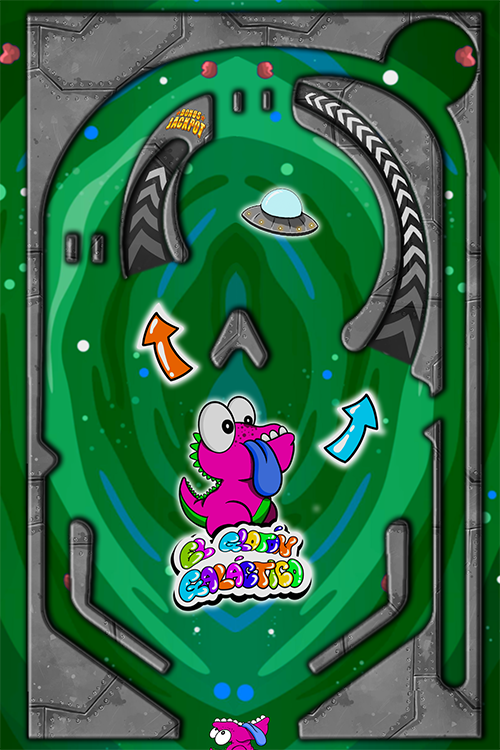
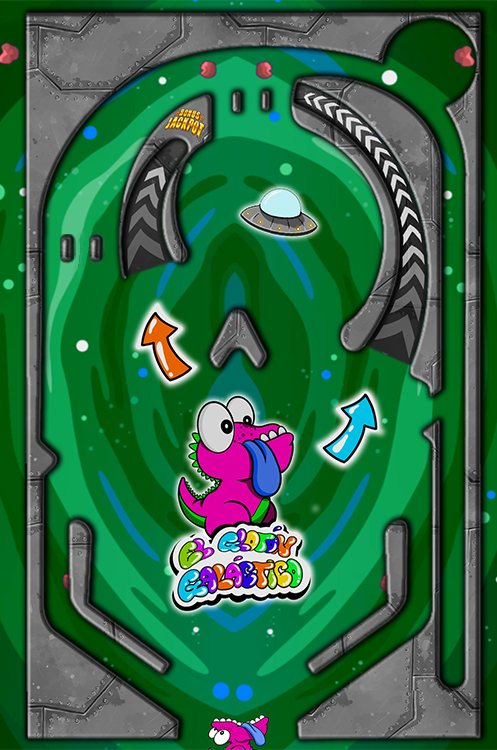
Colliders Mapa

diff --git a/ModuleSceneIntro.cpp b/ModuleSceneIntro.cpp
@@ -87,14 +87,10 @@ bool ModuleSceneIntro::Start()
 		153, 157, 164, 145, 173, 139, 182, 139, 188, 143, 189, 150, 186, 155, 181, 161,
 		177, 168, 173, 176, 167, 189, 163, 205, 163, 216, 164, 230, 166, 244, 170, 254,
 		177, 261, 181, 262 };
-	int collider_pivote_5[12] = {
-		96, 235,
-	99, 238,
-	99, 255,
-	92, 255,
-	92, 238,
-	95, 235 };
-
+	int collider_pivote_izquiera[14] = {
+		61, 258, 66, 261, 72, 259, 72, 239, 67, 235, 61, 239, 61, 257 };
+	int collider_pivote_centre[14] = {
+	237, 113, 240, 109, 240, 94, 236, 90, 232, 93, 232, 109, 236, 113 };
 
 	collider_carcasa.add(App->physics->CreateChain(0, 0, collider_point_carcasa, 114, b2_staticBody));
 	collider_mitg.add(App->physics->CreateChain(0, 0, collider_point_mitg, 30, b2_staticBody));
@@ -103,8 +99,10 @@ bool ModuleSceneIntro::Start()
 	collider_dreta_s.add(App->physics->CreateChain(0, 0, collider_dreta_superior, 64, b2_staticBody));
 	collider_dreta_i.add(App->physics->CreateChain(0, 0, collider_dreta_inferior, 88, b2_staticBody));
 	collider_esquerra_t.add(App->physics->CreateChain(0, 0, collider_esquerra, 116, b2_staticBody));
-	collider_pivot_5.add(App->physics->CreateChain(-28, 0, collider_pivote_5, 12, b2_staticBody));
-	collider_pivot_5.add(App->physics->CreateChain(0, 0, collider_pivote_5, 12, b2_staticBody));
+	collider_pivot_i.add(App->physics->CreateChain(0, 0, collider_pivote_izquiera, 14, b2_staticBody));
+	collider_pivot_i.add(App->physics->CreateChain(29, 0, collider_pivote_izquiera, 14, b2_staticBody));
+	collider_pivot_i.add(App->physics->CreateChain(0, 0, collider_pivote_centre, 14, b2_staticBody));
+	collider_pivot_i.add(App->physics->CreateChain(30, 0, collider_pivote_centre, 14, b2_staticBody));
 
 	return ret;
 }

diff --git a/ModuleSceneIntro.h b/ModuleSceneIntro.h
@@ -32,11 +32,8 @@ public:
 	p2List<PhysBody*> collider_dreta_s;
 	p2List<PhysBody*> collider_dreta_i;
 	p2List<PhysBody*> collider_esquerra_t;
-	p2List<PhysBody*> collider_pivot_1;
-	p2List<PhysBody*> collider_pivot_2;
-	p2List<PhysBody*> collider_pivot_3;
-	p2List<PhysBody*> collider_pivot_4;
-	p2List<PhysBody*> collider_pivot_5;
+	p2List<PhysBody*> collider_pivot_i;
+	p2List<PhysBody*> collider_pivot_c;
 
 
 
